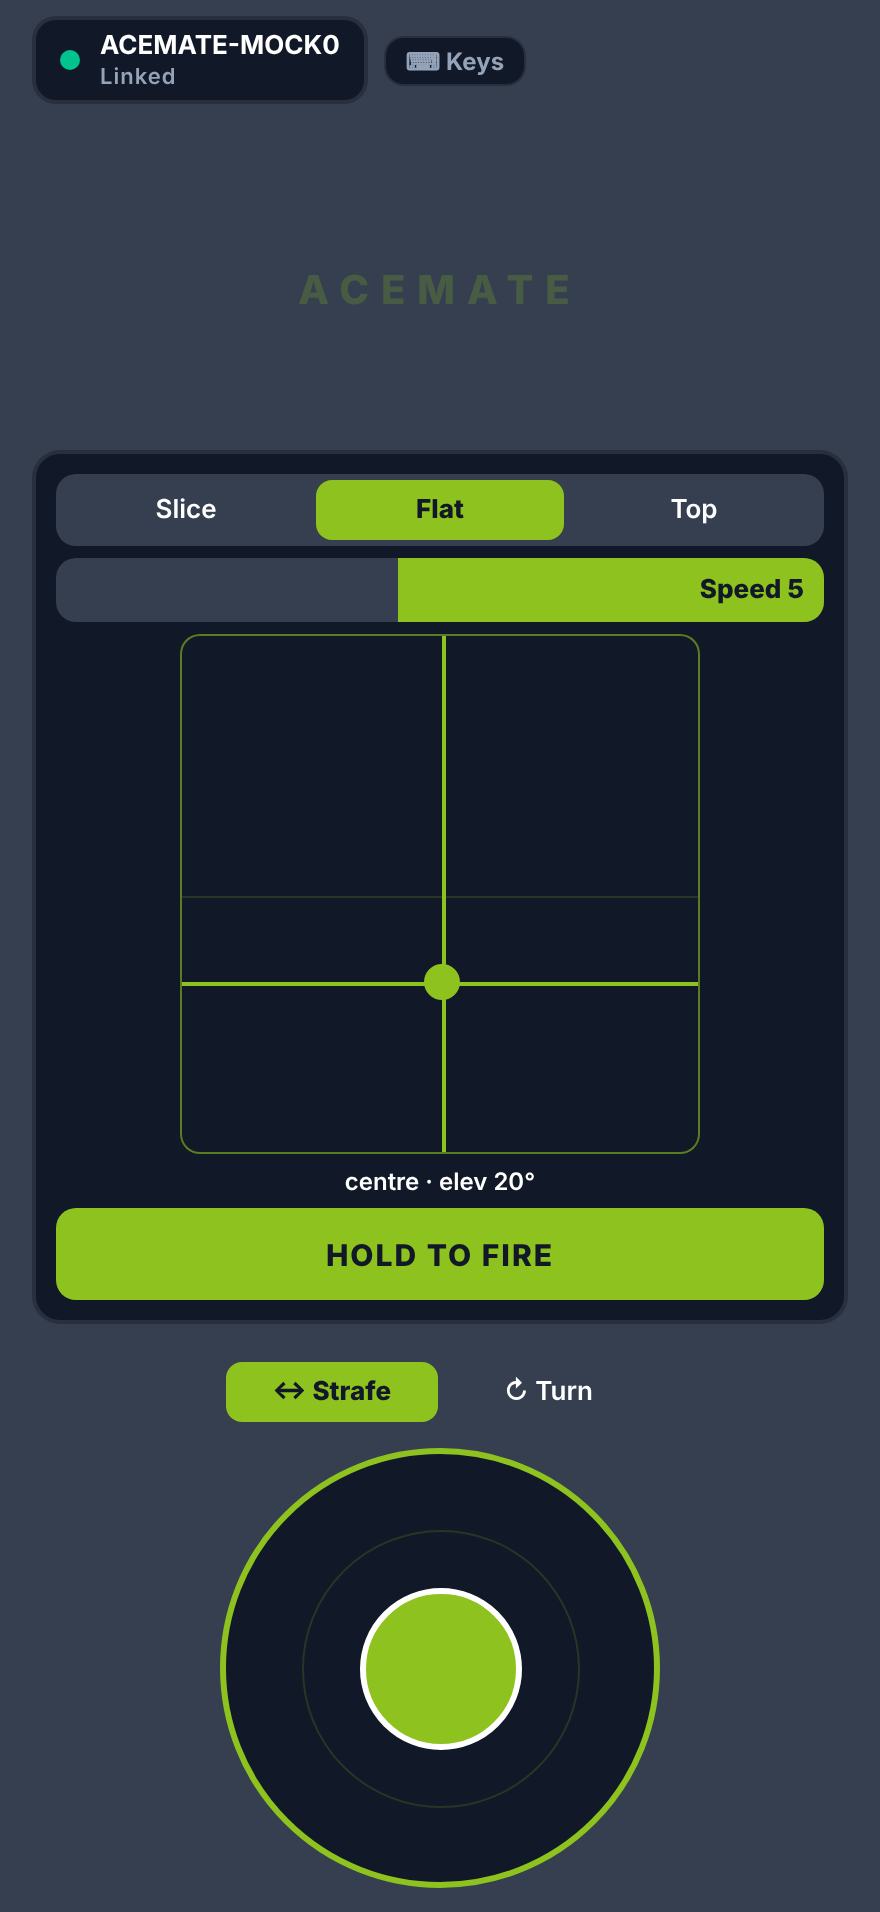
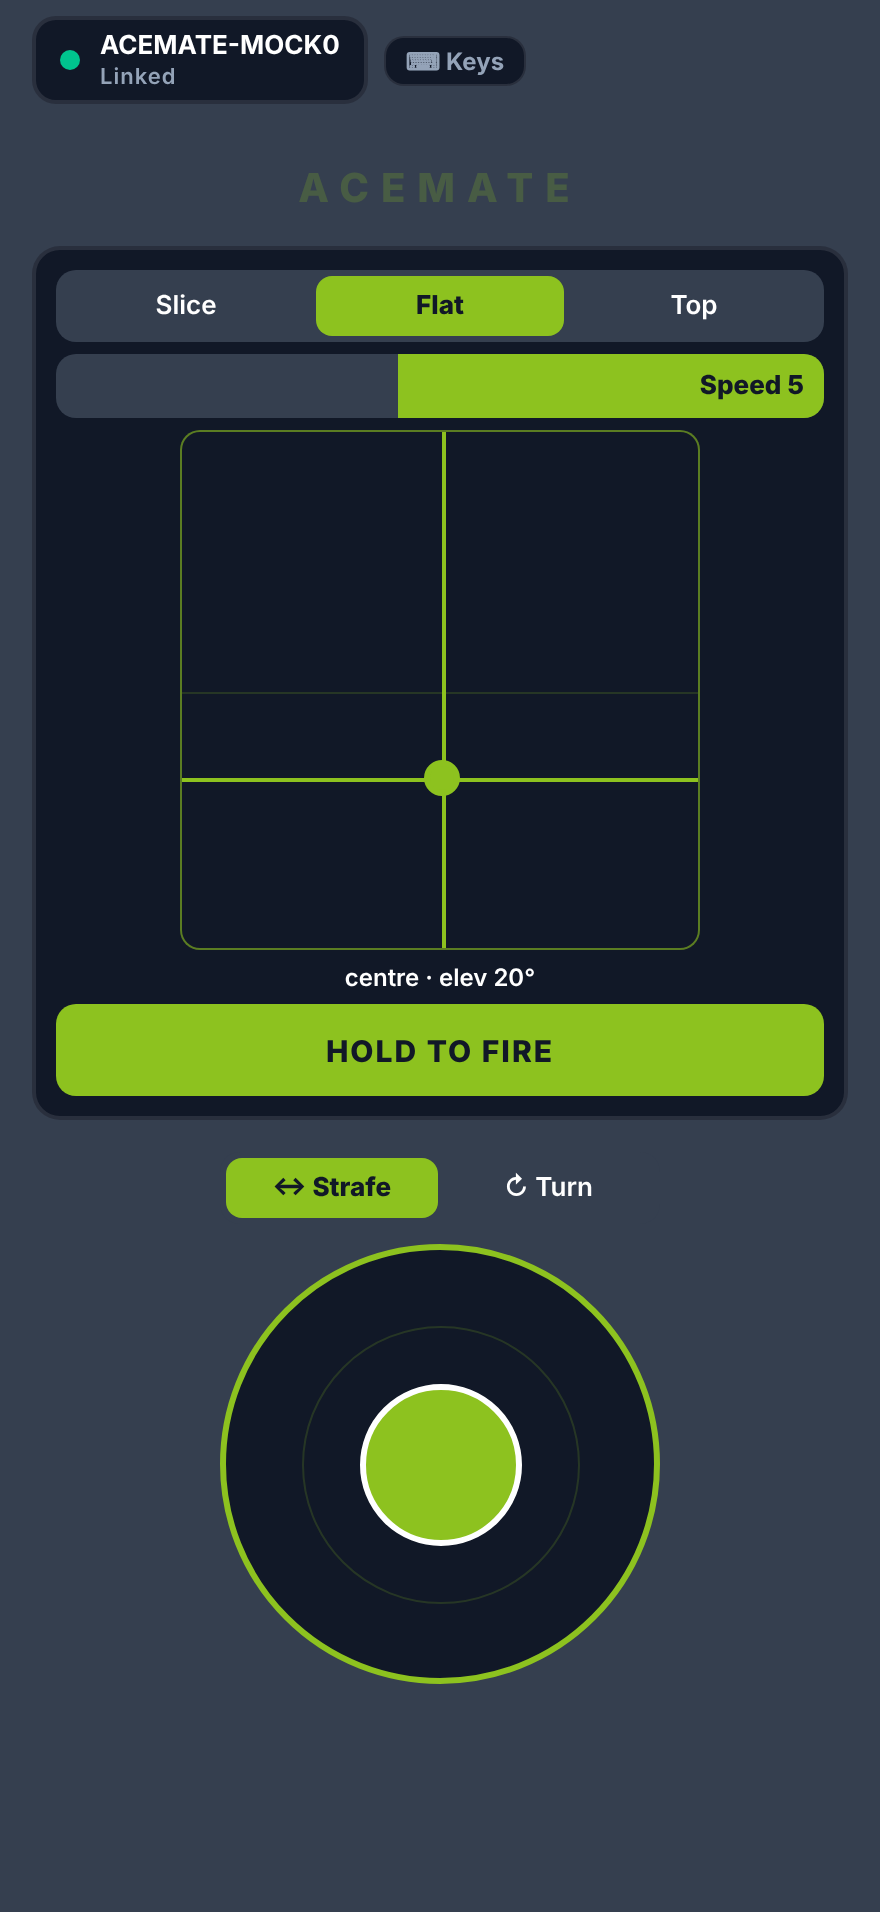
Raise the portrait launcher and stick: 70% less space around the wordmark
The spare height in portrait used to sit above the launcher, around the
ACEMATE wordmark. The wordmark now keeps 30% of it, split above and
below; the other 70% goes under the stick, so the launcher and stick sit
higher. computePortraitLayout returns spacerTop, spacerBottom and
whether the wordmark fits, and a test holds the split.

Claude-Session: https://claude.ai/code/session_01QiuntnrNLCSFZPbe8ZCTQq

diff --git a/apps/controller/src/ui/drive/PortraitDrive.tsx b/apps/controller/src/ui/drive/PortraitDrive.tsx
@@ -1,6 +1,6 @@
 import { StyleSheet, Text, View } from "react-native";
 import type { ColumnLayout } from "../layout";
-import { FIRE_GUARD, HEADER, HEADER_GAP } from "../layout-portrait";
+import { FIRE_GUARD, HEADER, HEADER_GAP, WORDMARK_HEIGHT } from "../layout-portrait";
 import { useThemedStyles, type Palette } from "../theme";
 import type { DriveProps } from "./DriveScreen";
 import { KeysHelp } from "./KeysHelp";
@@ -8,12 +8,9 @@ import { LauncherPanel } from "./LauncherPanel";
 import { StickGroup } from "./StickGroup";
 import { ConnectionChip, RunChip } from "./TopBar";
 
-// The wordmark only shows where the spare height can hold it without crowding the header.
-const WORDMARK_ROOM = 40;
-
 /**
- * Portrait: the header on top, the launcher below it, then the switch and the stick at the bottom where the thumb
- * rests. Spare height sits above the launcher, so the controls stay low, and the switch keeps Fire clear of the stick.
+ * Portrait: the header on top, the wordmark, the launcher, then the switch and the stick near the bottom where the
+ * thumb rests. Most spare height goes under the stick, a little around the wordmark; the switch keeps Fire clear.
  */
 export function PortraitDrive({ layout, ...props }: DriveProps & { layout: ColumnLayout }) {
   const styles = useThemedStyles(createStyles);
@@ -27,11 +24,12 @@ export function PortraitDrive({ layout, ...props }: DriveProps & { layout: Colum
         <KeysHelp />
         <RunChip launch={robot.launch} onStop={robot.stopRun} />
       </View>
-      <View style={styles.spacer}>
-        {layout.spacer >= WORDMARK_ROOM && <Text style={styles.wordmark}>ACEMATE</Text>}
+      <View style={[styles.spacer, { height: layout.spacerTop }]}>
+        {layout.wordmark && <Text style={styles.wordmark}>ACEMATE</Text>}
       </View>
       <LauncherPanel robot={robot} shot={props.shot} onShot={props.onShot} hold={props.hold} layout={layout} />
       <StickGroup {...props} size={layout.column} knob={layout.knob} width={layout.stickWidth} style={styles.stick} />
+      <View style={styles.bottom} />
     </>
   );
 }
@@ -41,8 +39,16 @@ function createStyles(palette: Palette) {
     header: { height: HEADER, flexDirection: "row", alignItems: "center", gap: 8, marginBottom: HEADER_GAP },
     // The chip gives way first, so Keys and the run chip always fit beside it.
     chip: { flexShrink: 1, minWidth: 0 },
-    spacer: { flex: 1, alignItems: "center", justifyContent: "center" },
-    wordmark: { color: palette.wordmark, fontSize: 20, fontWeight: "800", letterSpacing: 6 },
+    spacer: { alignItems: "center", justifyContent: "center" },
+    wordmark: {
+      color: palette.wordmark,
+      fontSize: 20,
+      lineHeight: WORDMARK_HEIGHT,
+      fontWeight: "800",
+      letterSpacing: 6,
+    },
+    // Takes the spare height under the stick (layout.spacerBottom), absorbing any rounding.
+    bottom: { flex: 1 },
     stick: { alignSelf: "center", marginTop: FIRE_GUARD },
   });
 }

diff --git a/apps/controller/test/layout-portrait.test.ts b/apps/controller/test/layout-portrait.test.ts
@@ -31,14 +31,14 @@ const STICK_SWITCH = 50;
 
 function stackHeight(layout: ColumnLayout): number {
   const used = HEADER + HEADER_GAP + portraitLauncherHeight(layout) + FIRE_GUARD + STICK_SWITCH + layout.column;
-  return layout.paddingTop + used + layout.paddingBottom;
+  return layout.paddingTop + used + layout.spacerTop + layout.spacerBottom + layout.paddingBottom;
 }
 
 describe("portrait layout", () => {
   it.each([...PHONES, ...BROWSERS])("fits the header, launcher and stick in the height at %o", (screen) => {
     const layout = computePortraitLayout(screen);
 
-    expect(stackHeight(layout)).toBeLessThanOrEqual(screen.height);
+    expect(stackHeight(layout)).toBe(screen.height);
     expect(layout.panel).toBeLessThanOrEqual(screen.width - 2 * layout.paddingH);
     expect(layout.stickWidth).toBeGreaterThanOrEqual(180);
   });
@@ -55,6 +55,15 @@ describe("portrait layout", () => {
     const layout = computePortraitLayout({ width: 440, height: 956, insets: portrait(62, 34) });
 
     expect(layout).toMatchObject({ paddingTop: 62, paddingBottom: 34, column: 220, pad: 260 });
+  });
+
+  it("keeps 30% of the slack around the wordmark and puts the rest under the stick", () => {
+    const layout = computePortraitLayout({ width: 440, height: 956, insets: portrait(62, 34) });
+    const slack = layout.spacerTop - 24 + layout.spacerBottom;
+
+    expect(layout.wordmark).toBe(true);
+    expect(layout.spacerTop - 24).toBe(Math.floor(slack * 0.3));
+    expect(layout.spacerBottom).toBeGreaterThan(layout.spacerTop - 24);
   });
 
   it("moves the pad beside the controls in a short browser window", () => {

diff --git a/apps/controller/src/ui/layout-portrait.ts b/apps/controller/src/ui/layout-portrait.ts
@@ -35,6 +35,10 @@ const STICK_MIN = 110;
 const PAD_MIN = 110;
 // The stick never takes more than this share of the width, leaving the thumb room around it.
 const STICK_WIDTH_SHARE = 0.6;
+/** The wordmark's line height; it shows only when the spare height can hold it. */
+export const WORDMARK_HEIGHT = 24;
+// The share of the slack kept around the wordmark; the rest goes under the stick (owner: 70% less around the logo).
+const AROUND_WORDMARK = 0.3;
 // Everything that is not the stick or the pad: header, gaps, the launcher's chrome and the switch.
 const FIXED = HEADER + HEADER_GAP + FIRE_GUARD + STICK_SWITCH;
 
@@ -99,8 +103,16 @@ export function computePortraitLayout(input: LayoutInput): ColumnLayout {
     paddingH: frame.paddingH,
     paddingTop: frame.paddingTop,
     paddingBottom: frame.paddingBottom,
-    spacer: Math.max(0, frame.room - used),
+    ...splitSpare(Math.max(0, frame.room - used)),
   };
+}
+
+/** The wordmark keeps 30% of the slack around it, top and bottom; the other 70% sits under the stick. */
+function splitSpare(spare: number): Pick<ColumnLayout, "wordmark" | "spacerTop" | "spacerBottom"> {
+  const wordmark = spare >= WORDMARK_HEIGHT;
+  const slack = wordmark ? spare - WORDMARK_HEIGHT : spare;
+  const around = Math.floor(slack * AROUND_WORDMARK);
+  return { wordmark, spacerTop: around + (wordmark ? WORDMARK_HEIGHT : 0), spacerBottom: slack - around };
 }
 
 /** The landscape row or the portrait column, whichever the window's shape calls for. */

diff --git a/apps/controller/src/ui/layout.ts b/apps/controller/src/ui/layout.ts
@@ -29,8 +29,12 @@ export interface RowLayout extends SharedLayout {
 /** Portrait: the header on top, then the launcher, then the stick at the bottom where the thumb rests. */
 export interface ColumnLayout extends SharedLayout {
   arrangement: "column";
-  /** Height left over above the launcher; the controls sit low, toward the thumb. */
-  spacer: number;
+  /** Whether the spare height shows the ACEMATE wordmark above the launcher. */
+  wordmark: boolean;
+  /** Spare height above the launcher, holding the wordmark with a little room around it. */
+  spacerTop: number;
+  /** Spare height under the stick: most of the slack, so the launcher and stick sit higher (owner, 2026-10-14). */
+  spacerBottom: number;
 }
 
 export type DriveLayout = RowLayout | ColumnLayout;
